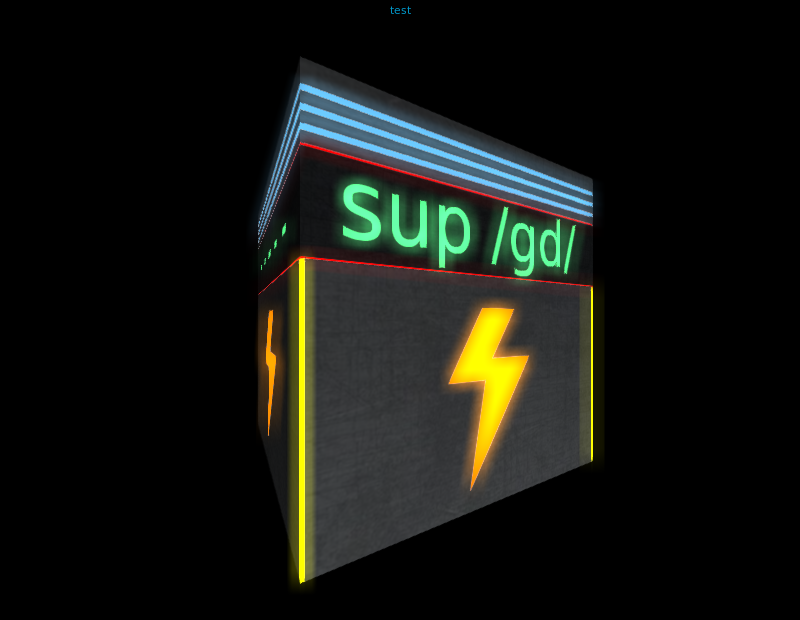
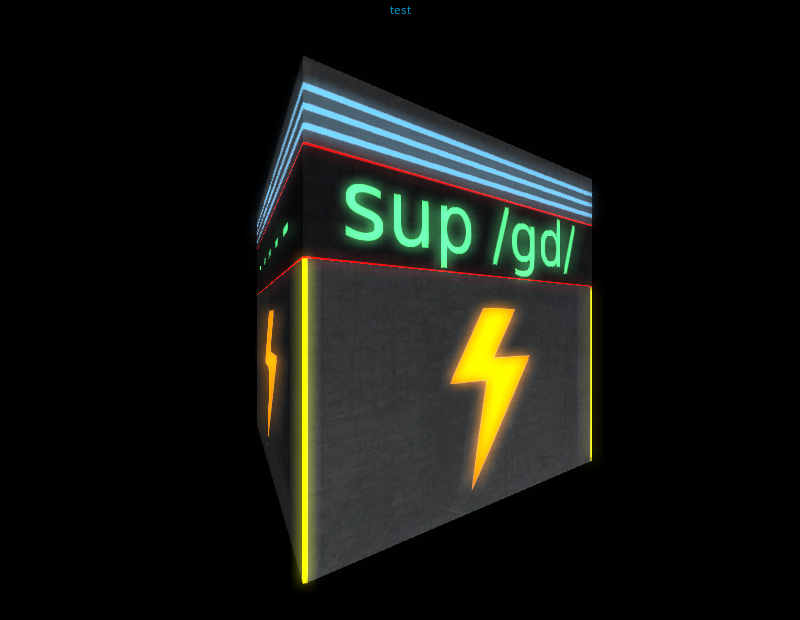
two pass gaussian blur & resolve texture flipping bug

diff --git a/engine/src/main/java/com/glowstick/engine/graphics/Fbo.java b/engine/src/main/java/com/glowstick/engine/graphics/Fbo.java
@@ -4,6 +4,7 @@ import com.glowstick.engine.builders.TextureBuilder;
 import com.glowstick.engine.cache.ModelCache;
 import com.glowstick.engine.cache.ShaderCache;
 import com.glowstick.engine.game.camera.Camera;
+import com.glowstick.engine.graphics.shader.BlurShader;
 import org.springframework.beans.factory.annotation.Autowired;
 import org.springframework.stereotype.Component;
 
@@ -17,17 +18,19 @@ public class Fbo {
     private Model plane;
 
     private Shader fboShader;
-    private Shader blurShader;
+    private BlurShader blurShader;
     private Shader fxaaShader;
 
     private int fboFXAA;
-    private int fboBlur;
+    private int fboBlurPass1;
+    private int fboBlurPass2;
     private int fbo;
 
     private Texture colorTextureFXAA;
     private Texture glowTextureFXAA;
 
-    private Texture glowTextureBlur;
+    private Texture colorTextureBlurPass1;
+    private Texture colorTextureBlurPass2;
 
     private Texture depthTexture;
     private Texture colorTexture;
@@ -40,7 +43,7 @@ public class Fbo {
         this.plane = modelCache.get("plane");
 
         this.fboShader = shaderCache.get("fbo");
-        this.blurShader = shaderCache.get("blur");
+        this.blurShader = (BlurShader)shaderCache.get("blur");
         this.fxaaShader = shaderCache.get("fxaa");
 
         // TODO: move to service
@@ -55,11 +58,19 @@ public class Fbo {
 
         glDrawBuffers(new int[] {GL_COLOR_ATTACHMENT0, GL_COLOR_ATTACHMENT1});
 
-        this.fboBlur = glGenFramebuffers();
-        glBindFramebuffer(GL_FRAMEBUFFER, this.fboBlur);
+        this.fboBlurPass1 = glGenFramebuffers();
+        glBindFramebuffer(GL_FRAMEBUFFER, this.fboBlurPass1);
 
-        this.glowTextureBlur = textureBuilder.buildFloat("glowBlur", 800, 600);
-        glFramebufferTexture2D(GL_FRAMEBUFFER, GL_COLOR_ATTACHMENT0, GL_TEXTURE_2D, glowTextureBlur.getId(), 0);
+        this.colorTextureBlurPass1 = textureBuilder.buildFloat("glowBlurPass1", 800, 600);
+        glFramebufferTexture2D(GL_FRAMEBUFFER, GL_COLOR_ATTACHMENT0, GL_TEXTURE_2D, colorTextureBlurPass1.getId(), 0);
+
+        glDrawBuffers(new int[] {GL_COLOR_ATTACHMENT0});
+
+        this.fboBlurPass2 = glGenFramebuffers();
+        glBindFramebuffer(GL_FRAMEBUFFER, this.fboBlurPass2);
+
+        this.colorTextureBlurPass2 = textureBuilder.buildFloat("glowBlurPass2", 800, 600);
+        glFramebufferTexture2D(GL_FRAMEBUFFER, GL_COLOR_ATTACHMENT0, GL_TEXTURE_2D, colorTextureBlurPass2.getId(), 0);
 
         glDrawBuffers(new int[] {GL_COLOR_ATTACHMENT0});
 
@@ -102,11 +113,16 @@ public class Fbo {
         this.glowTexture.bind();
         this.plane.draw(this.fxaaShader, camera, null);
 
-        glBindFramebuffer(GL_FRAMEBUFFER, this.fboBlur);
+        glBindFramebuffer(GL_FRAMEBUFFER, this.fboBlurPass1);
         glActiveTexture(GL_TEXTURE0);
         this.colorTextureFXAA.bind();
-        glActiveTexture(GL_TEXTURE1);
-        this.glowTextureFXAA.bind();
+        this.blurShader.setFirstPass(true);
+        this.plane.draw(this.blurShader, camera, null);
+
+        glBindFramebuffer(GL_FRAMEBUFFER, this.fboBlurPass2);
+        glActiveTexture(GL_TEXTURE0);
+        this.colorTextureBlurPass1.bind();
+        this.blurShader.setFirstPass(false);
         this.plane.draw(this.blurShader, camera, null);
 
         glBindFramebuffer(GL_FRAMEBUFFER, 0);
@@ -117,9 +133,9 @@ public class Fbo {
         glActiveTexture(GL_TEXTURE2);
         this.normalTexture.bind();
         glActiveTexture(GL_TEXTURE3);
-        this.glowTexture.bind();
+        this.glowTextureFXAA.bind();
         glActiveTexture(GL_TEXTURE4);
-        this.glowTextureBlur.bind();
+        this.colorTextureBlurPass2.bind();
         glActiveTexture(GL_TEXTURE5);
         this.depthTexture.bind();
         this.plane.draw(this.fboShader, camera, null);

diff --git a/engine/src/main/java/com/glowstick/engine/builders/TextureBuilder.java b/engine/src/main/java/com/glowstick/engine/builders/TextureBuilder.java
@@ -12,9 +12,7 @@ import java.nio.ByteBuffer;
 
 import static org.lwjgl.opengl.GL11.*;
 import static org.lwjgl.opengl.GL30.GL_DEPTH_COMPONENT32F;
-import static org.lwjgl.opengl.GL30.GL_RGB16F;
-import static org.lwjgl.opengl.GL32.GL_TEXTURE_2D_MULTISAMPLE;
-import static org.lwjgl.opengl.GL32.glTexImage2DMultisample;
+import static org.lwjgl.opengl.GL30.GL_RGBA16F;
 
 @Component
 public class TextureBuilder implements Builder<Texture> {
@@ -39,7 +37,7 @@ public class TextureBuilder implements Builder<Texture> {
     }
 
     public Texture buildFloat(String name, int width, int height) {
-        return this.build(name, width, height, GL_RGB16F, GL_RGB, GL_FLOAT, null);
+        return this.build(name, width, height, GL_RGBA16F, GL_RGBA, GL_FLOAT, null);
     }
 
     @Override
@@ -54,7 +52,7 @@ public class TextureBuilder implements Builder<Texture> {
         int position = width * height * channels;
         while (reader.hasMoreRows()) {
             byte[] line = reader.readRowByte().getScanline();
-//            pixels.position(position -= width * channels);
+            pixels.position(position -= width * channels);
             pixels.put(line);
         }
         pixels.position(0);

diff --git a/engine/src/main/java/com/glowstick/engine/builders/ModelBuilder.java b/engine/src/main/java/com/glowstick/engine/builders/ModelBuilder.java
@@ -76,13 +76,13 @@ public class ModelBuilder implements Builder<Model> {
         for (int i = 0; i < vertices.size(); i++) {
             Vertex vertex = vertices.get(i);
             rawVertices[i*8]   = vertex.getCoodrs().getX();
-            rawVertices[i*8+1] = -vertex.getCoodrs().getY();
+            rawVertices[i*8+1] = vertex.getCoodrs().getY();
             rawVertices[i*8+2] = vertex.getCoodrs().getZ();
             rawVertices[i*8+3] = vertex.getNormal().getX();
             rawVertices[i*8+4] = vertex.getNormal().getY();
             rawVertices[i*8+5] = vertex.getNormal().getZ();
             rawVertices[i*8+6] = vertex.getTexCoords().getX();
-            rawVertices[i*8+7] = -vertex.getTexCoords().getY();
+            rawVertices[i*8+7] = vertex.getTexCoords().getY();
         }
 
         int vao = glGenVertexArrays();

diff --git a/engine/src/main/java/com/glowstick/engine/graphics/shader/BlurShader.java b/engine/src/main/java/com/glowstick/engine/graphics/shader/BlurShader.java
@@ -3,10 +3,14 @@ package com.glowstick.engine.graphics.shader;
 import com.glowstick.engine.game.Entity;
 import com.glowstick.engine.game.camera.Camera;
 import com.glowstick.engine.graphics.Shader;
+import lombok.Setter;
 
 import static org.lwjgl.opengl.GL20.glUniform1i;
 
 public class BlurShader extends Shader {
+    @Setter
+    private boolean firstPass;
+
     public BlurShader(String name, int program) {
         super(name, program);
     }
@@ -15,5 +19,6 @@ public class BlurShader extends Shader {
     protected void linkUniforms(Camera camera, Entity entity) {
         glUniform1i(this.getUniformLocation("colorTexture"), 0);
         glUniform1i(this.getUniformLocation("glowTexture"), 1);
+        glUniform1i(this.getUniformLocation("firstPass"), this.firstPass ? 1 : 0);
     }
 }

diff --git a/game/src/main/java/com/glowstick/game/scenes/Scene01.java b/game/src/main/java/com/glowstick/game/scenes/Scene01.java
@@ -8,6 +8,6 @@ import org.lwjgl.util.vector.Vector3f;
 public class Scene01 extends Scene {
     public Scene01(EntityBuilder entityBuilder, Camera camera) throws Exception {
         super(entityBuilder, camera);
-        this.addEntity("cube").move(0, 0, -2.5f).rotate(-(float)(Math.PI / 6), new Vector3f(0, 1, 0));
+        this.addEntity("cube").move(0, 0, -2.5f).rotate((float)(Math.PI / 6), new Vector3f(0, 1, 0));
     }
 }

diff --git a/engine/src/main/java/com/glowstick/engine/Utils.java b/engine/src/main/java/com/glowstick/engine/Utils.java
@@ -40,7 +40,7 @@ public class Utils {
         float f = (float)(1.0f / Math.tan(fovy / 2.0));
         matrix.setIdentity();
         matrix.m00 = f / aspect;
-        matrix.m11 = -f;
+        matrix.m11 = f;
         matrix.m22 = (zFar + zNear) / (zNear - zFar);
         matrix.m23 = -1;
         matrix.m32 = 2 * zFar * zNear / (zNear - zFar);

diff --git a/README.md b/README.md
@@ -3,7 +3,7 @@ A little OpenGL experiment
 ![screenshot](https://github.com/kirillsurkov/game_project/raw/master/screenshot.png) 
 
 ## TODOs:
-- [ ] two pass gaussian blur
+- [x] two pass gaussian blur
 - [ ] lights
 - [ ] code refactoring
 - [ ] more TODOs
